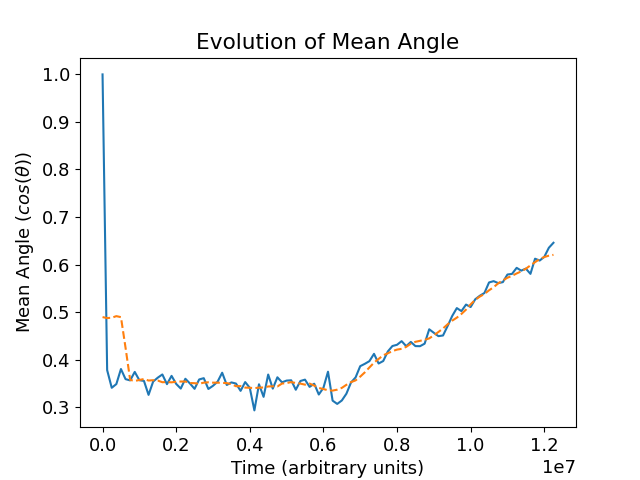
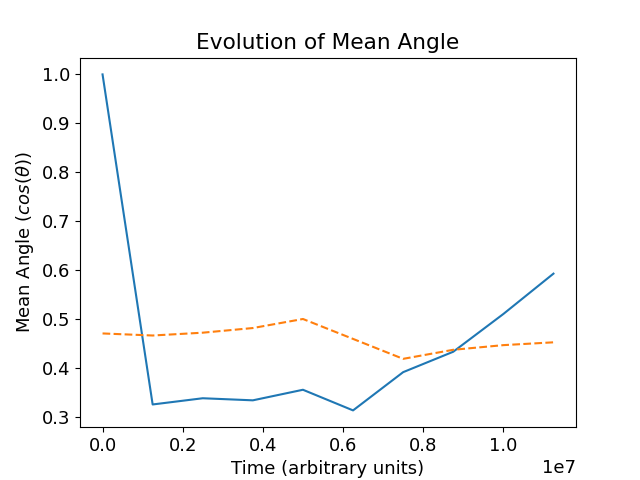
pre-adding colour map

diff --git a/Phase_Structure/Nunchucks/Fixed_Rigidity/angle_plot.py b/Phase_Structure/Nunchucks/Fixed_Rigidity/angle_plot.py
@@ -5,8 +5,8 @@ from scipy.ndimage import uniform_filter1d  # for rolling average
 from phase_plot import vol_frac
 
 file_root = "output_T_0.5_time_"
-sampling_freq = 5  # only samples one in X files (must be integer) #30
-plotting_freq = 5  # only plots on in X of the sampled distributions
+sampling_freq = 50  # only samples one in X files (must be integer) #30
+plotting_freq = 1  # only plots on in X of the sampled distributions
 
 plt.rcParams.update({"font.size": 13})  # for figures to go into latex at halfwidth
 

diff --git a/Phase_Structure/Nunchucks/Fixed_Rigidity/correlation.plot.py b/Phase_Structure/Nunchucks/Fixed_Rigidity/correlation.plot.py
@@ -240,6 +240,7 @@ for i, time in enumerate(time_range):  # interate over dump files
 
     print("T = " + str(time) + "/" + str(run_time))
 
+plt.colorbar(cs)
 plt.title("Pairwise Angular Correlation Function")
 plt.xlabel("Particle Separation")
 plt.ylabel("Correlation Function")
